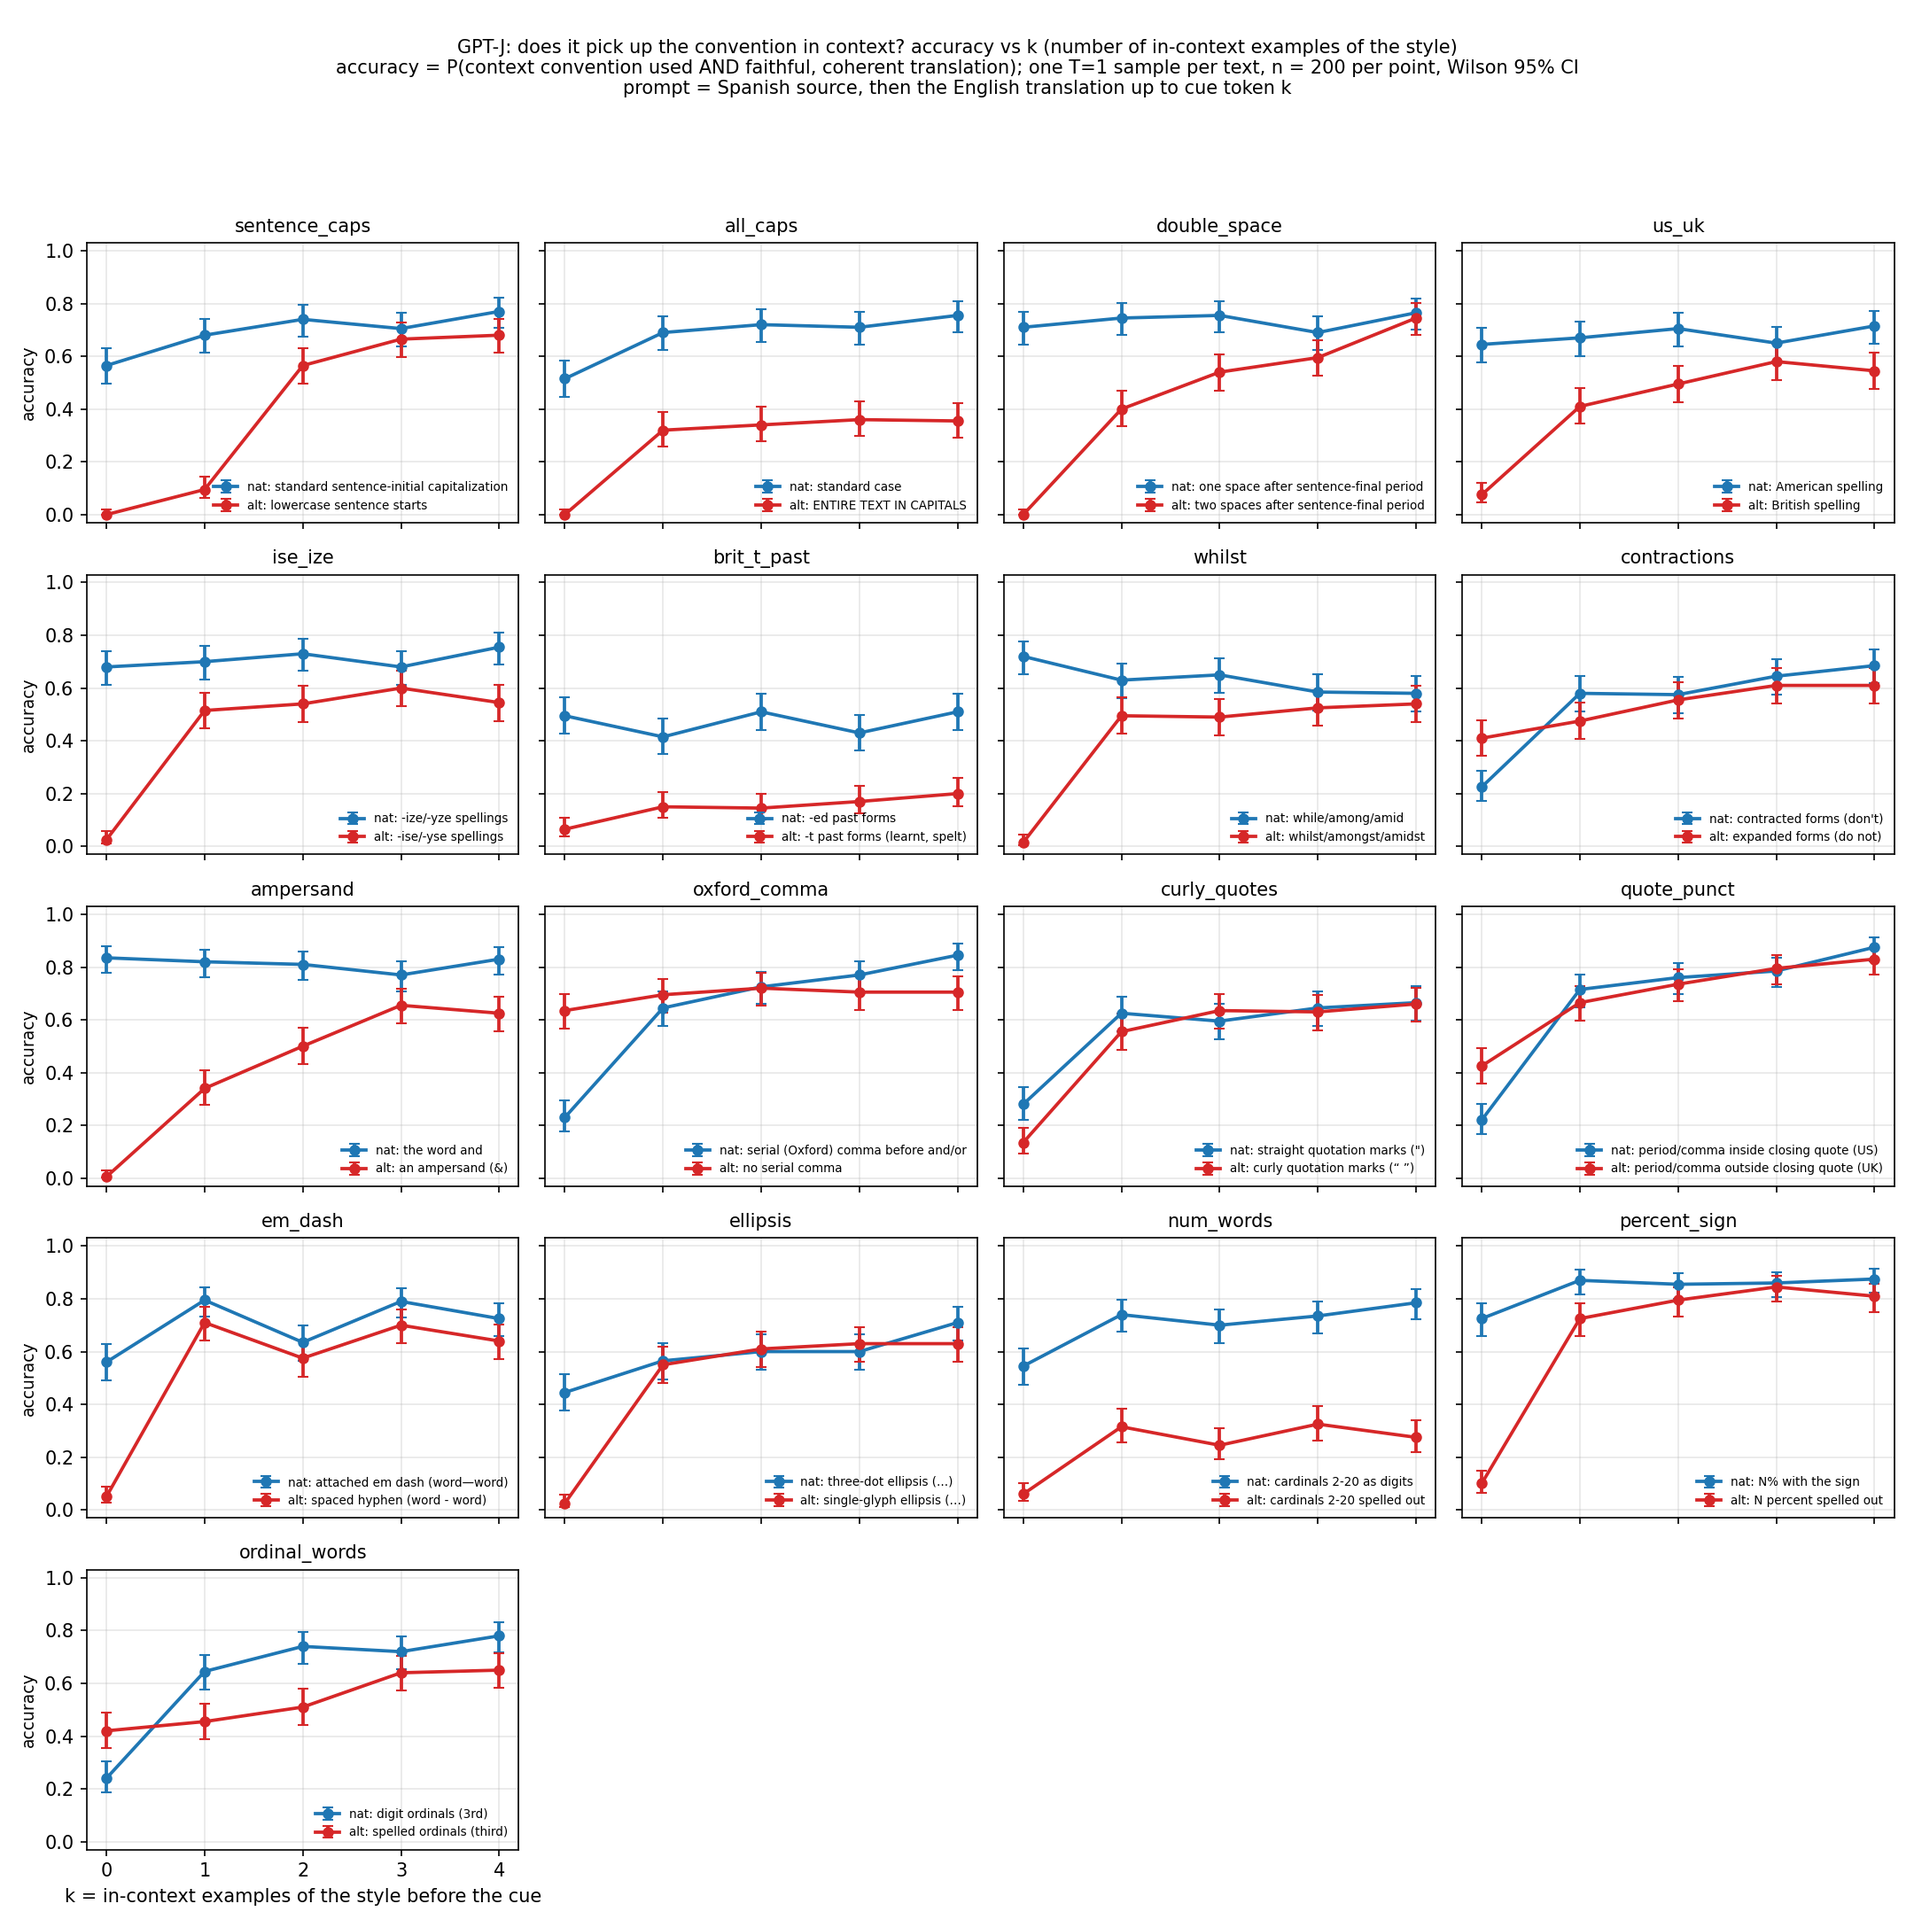
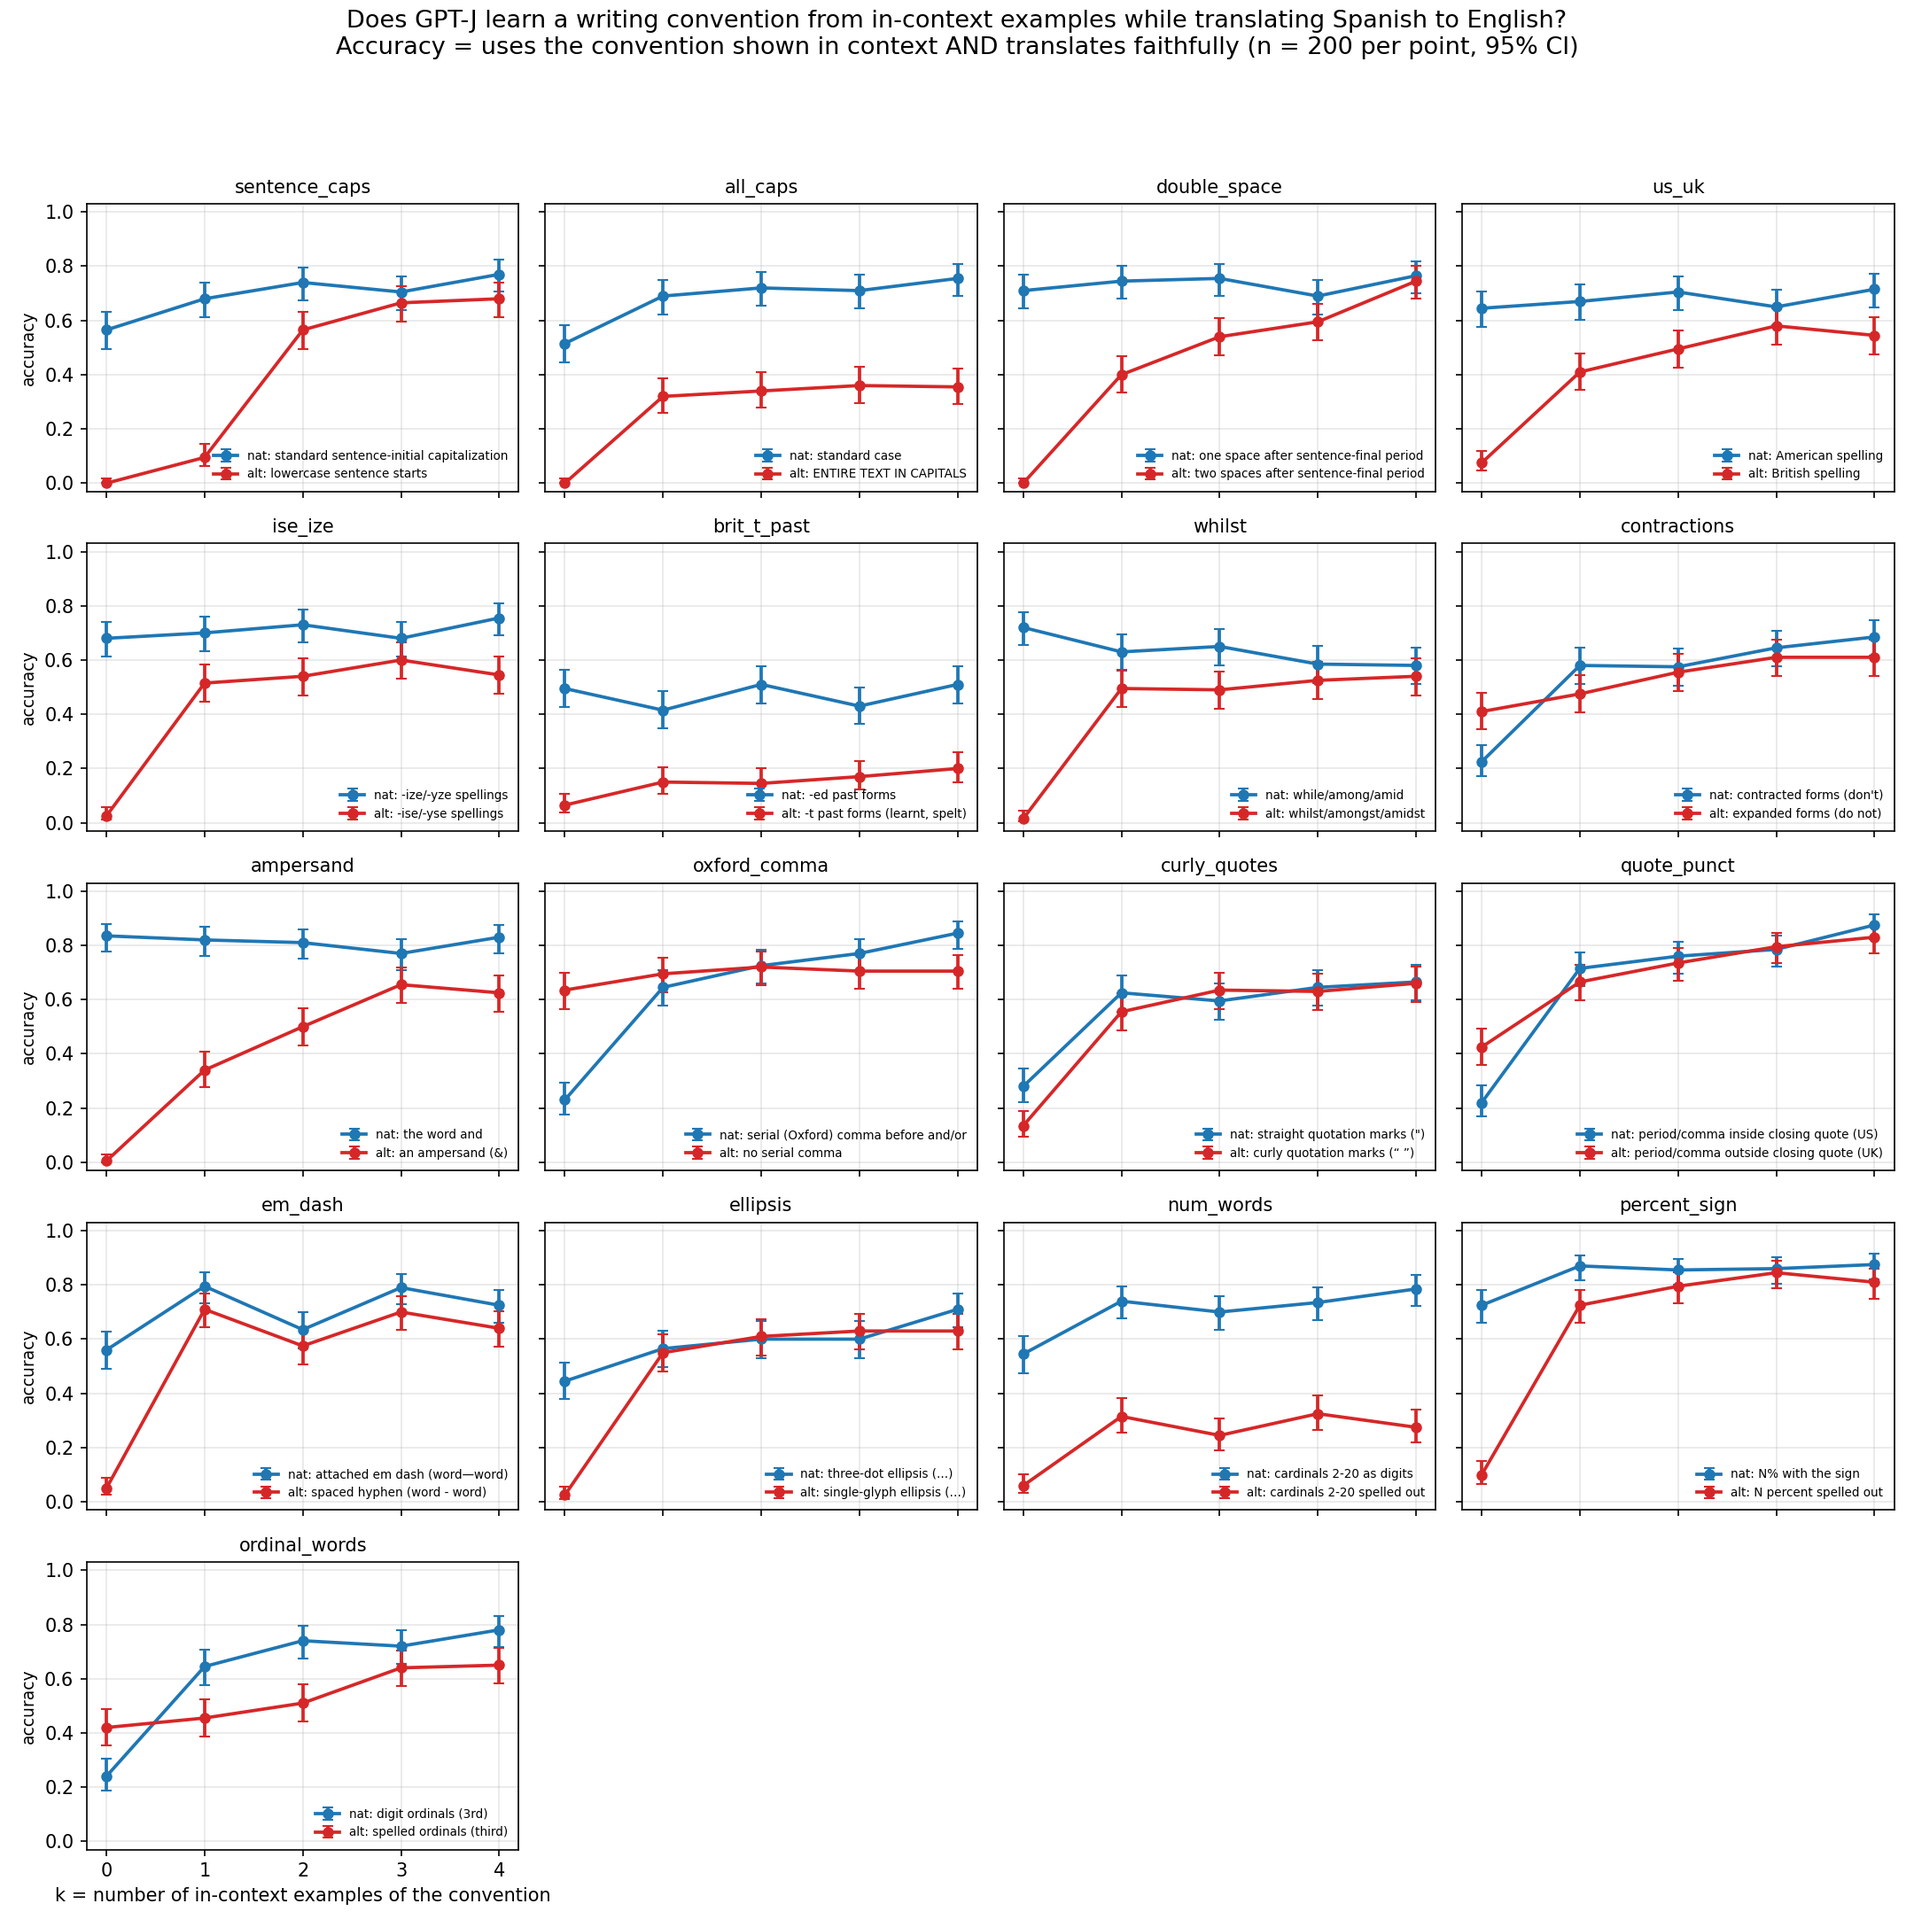
style_translation plots: clearer titles and axis labels

diff --git a/src/sandbox/style_translation/analyze.py b/src/sandbox/style_translation/analyze.py
@@ -81,11 +81,10 @@ def main():
     C = {"nat": "#1f77b4", "alt": "#d62728"}
     for metric, fname, ylabel, title in (
         (0, "accuracy_by_k.png", "accuracy",
-         "GPT-J: does it pick up the convention in context? accuracy vs k (number of in-context examples of the style)\n"
-         "accuracy = P(context convention used AND faithful, coherent translation); one T=1 sample per text, n = 200 per point, Wilson 95% CI\n"
-         "prompt = Spanish source, then the English translation up to cue token k"),
+         "Does GPT-J learn a writing convention from in-context examples while translating Spanish to English?\n"
+         "Accuracy = uses the convention shown in context AND translates faithfully (n = 200 per point, 95% CI)"),
         (4, "unscorable_by_k.png", "unscorable share",
-         "Completions that avoid the decision (neither style produced), by k — scored as inaccurate in accuracy_by_k")):
+         "Share of completions that use neither convention (counted as inaccurate in the accuracy plot)")):
         fig, axes = plt.subplots(nrow, ncol, figsize=(3.6 * ncol, 2.9 * nrow), sharex=True, sharey=True)
         axes = axes.ravel()
         for ax, fam in zip(axes, fams):
@@ -105,11 +104,11 @@ def main():
         for ax in axes[len(fams):]:
             ax.axis("off")
         for ax in axes[-ncol:]:
-            ax.set_xlabel("k = in-context examples of the style before the cue")
+            ax.set_xlabel("k = number of in-context examples of the convention")
         for ax in axes[::ncol]:
             ax.set_ylabel(ylabel, fontsize=9)
-        fig.suptitle(title, fontsize=10)
-        fig.tight_layout(rect=(0, 0, 1, 0.94))
+        fig.suptitle(title, fontsize=13, y=0.995)
+        fig.tight_layout(rect=(0, 0, 1, 0.955))
         fig.savefig(OUT / fname, dpi=150); plt.close(fig)
 
     # unscorable table: per family x style, pooled over k and per k
